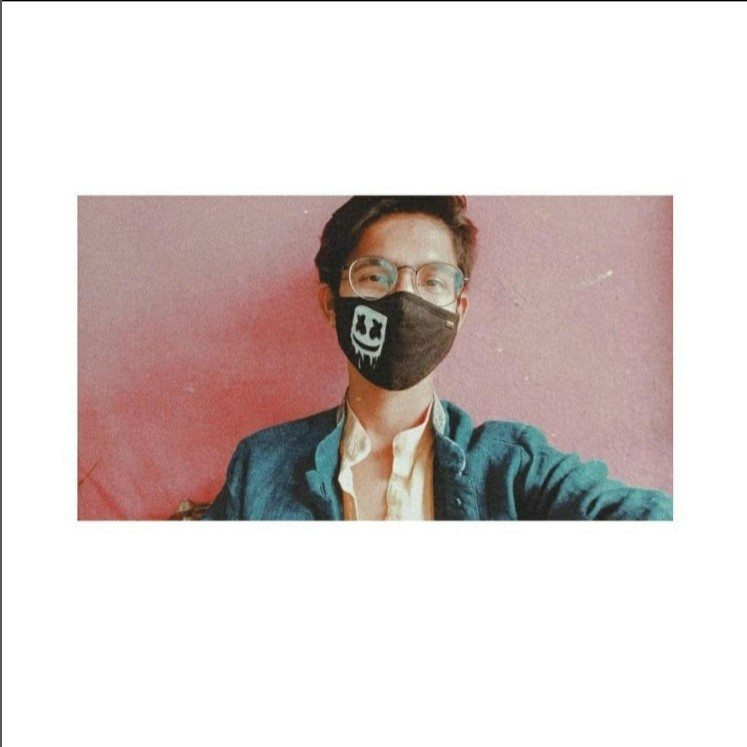
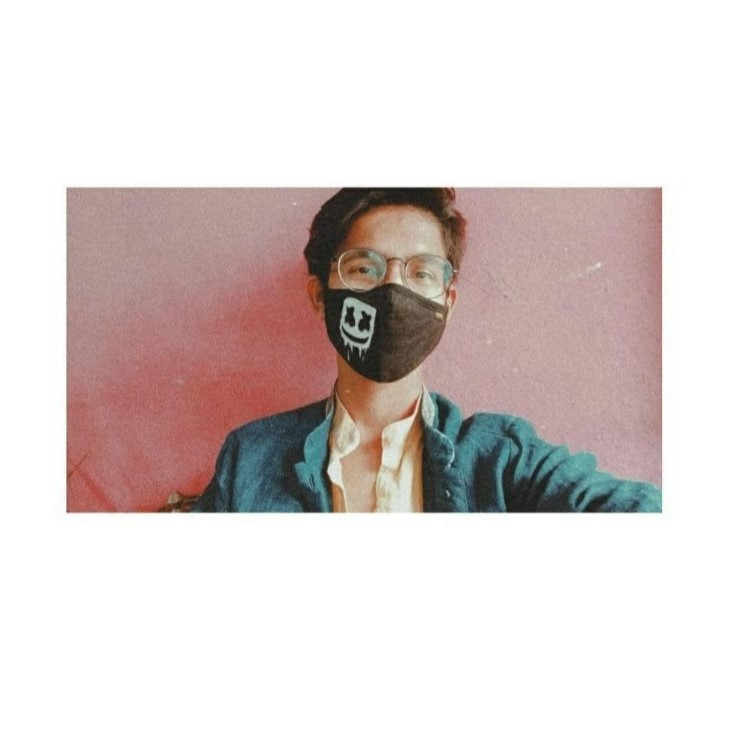
html file completed

Changed region(s): [[0.0625, 0.249, 0.9062, 0.7158], [0.0, 0.0, 0.0312, 0.0311]]

diff --git a/Beginner Projects/90 days 90 Projects/User Profile Card/index.html b/Beginner Projects/90 days 90 Projects/User Profile Card/index.html
@@ -23,9 +23,32 @@
             </ul>
         </div>
         <div class="user-image">
-            
+            <img src="my_photo.jpeg" alt="">
+        </div>
+        <h2 class="user-name">Atharv Dange</h2>
+        <p class="about-user">My name Atharv Dange and I'm a Frontend Developer</p>
+        <button class="hire-me">Hire me</button>
+
+        <div class="social-container">
+            <div class="social-item">
+                <li>
+                    <i class="fa-brands fa-instagram"></i>
+                </li>
+                <span class="followers">460</span>
+                <span class="followers">Followers</span>
+            </div>
+
+            <div class="social-item">
+                <li>
+                    <i class="fa-brands fa-linkedin"></i>
+                </li>
+                <span class="followers">460</span>
+                <span class="followers">Followers</span>
+            </div>
+
         </div>
     </div>
+
 </body>
 <script src="index.js"></script>
 
